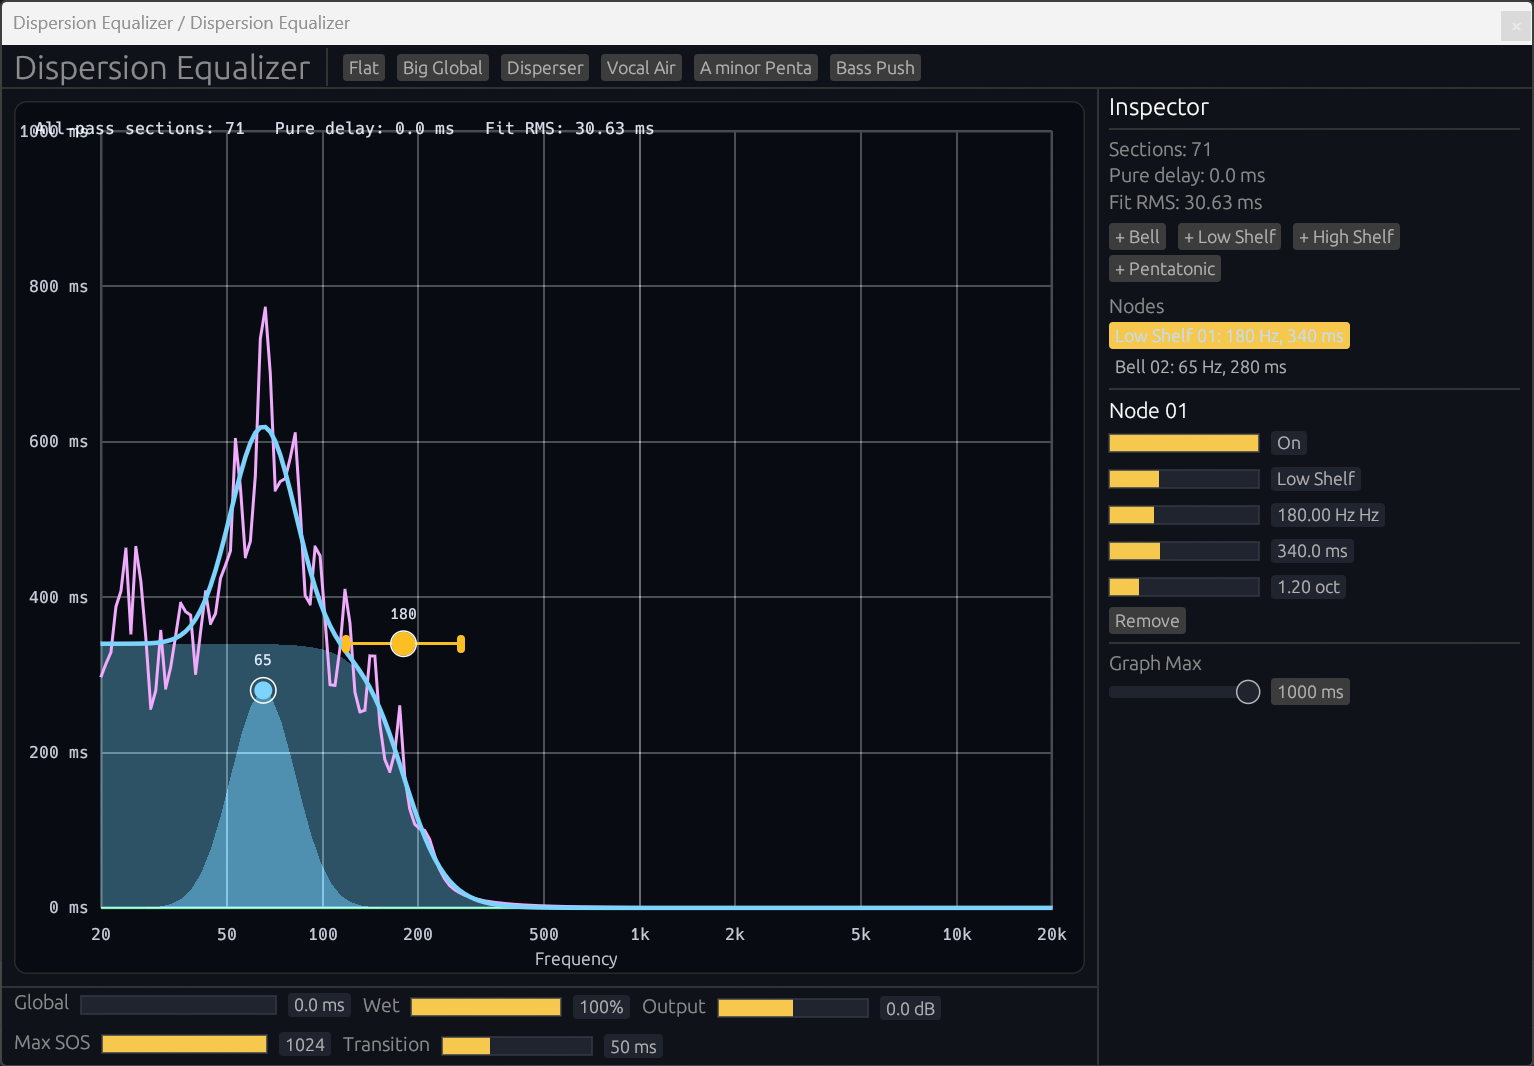
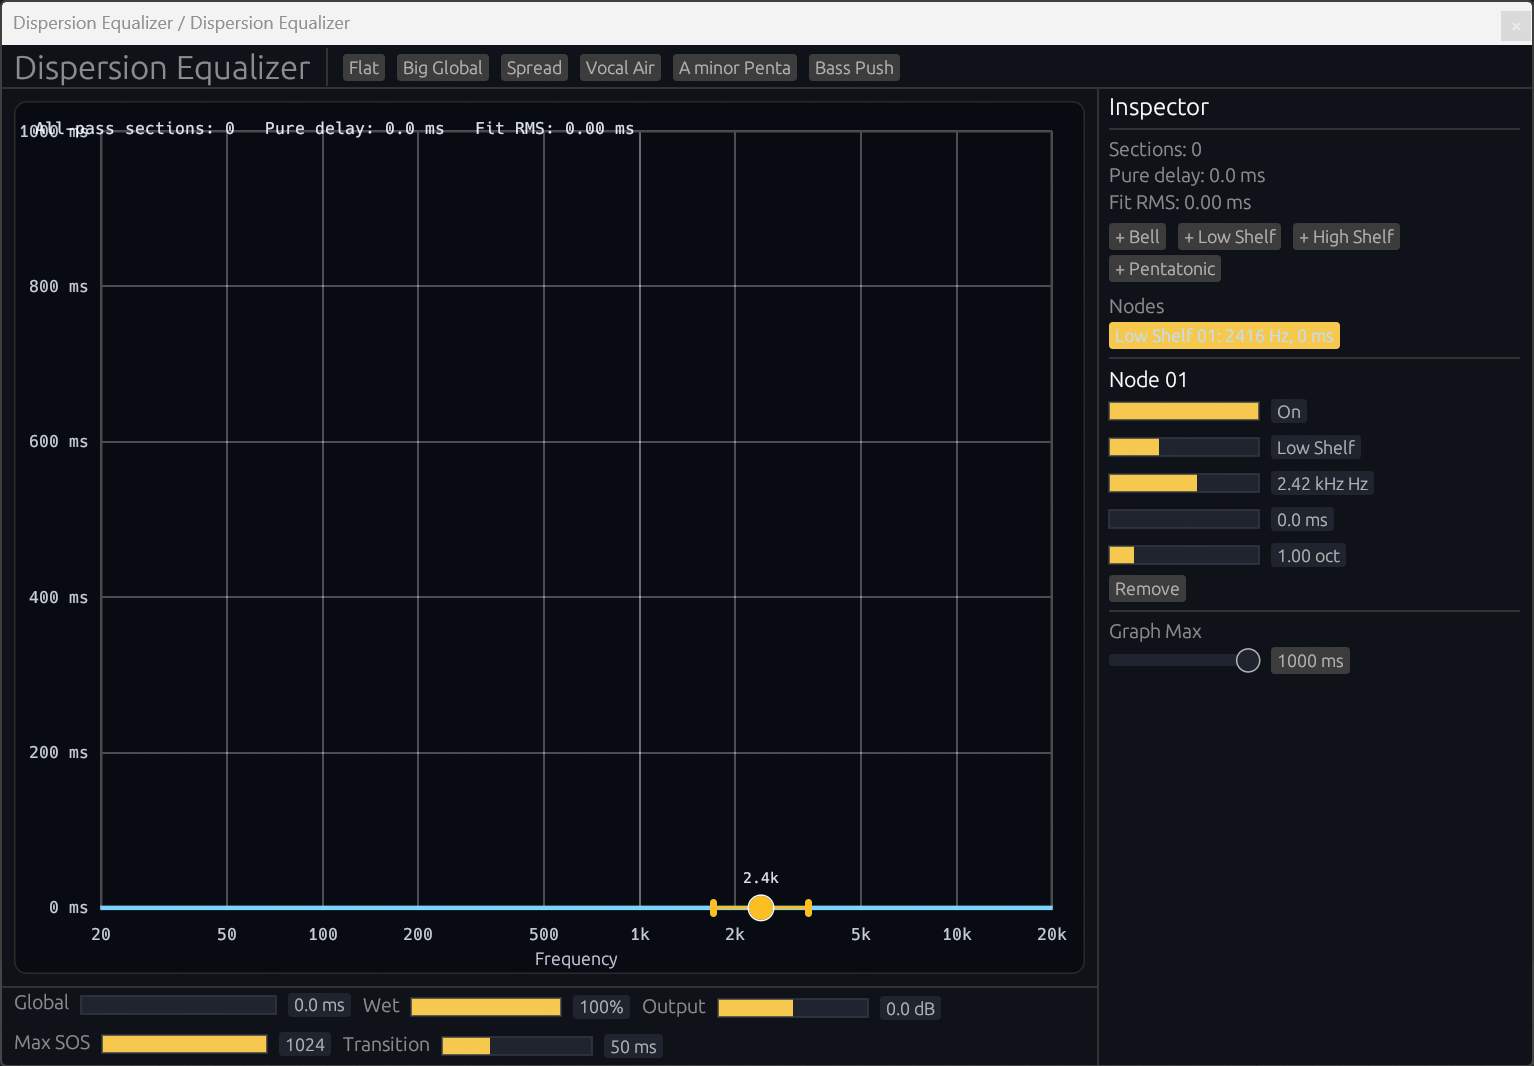
change Param name

diff --git a/docs/preview.html b/docs/preview.html
@@ -653,7 +653,7 @@
       <div class="button-grid three-cols">
         <button data-preset="flat">Flat</button>
         <button data-preset="global">Big Global</button>
-        <button data-preset="disperser">Disperser</button>
+        <button data-preset="phaseSpread">Spread</button>
         <button data-preset="vocal">Vocal Air</button>
         <button data-preset="pentatonic">A minor Penta</button>
         <button data-preset="bass">Bass Push</button>
@@ -2001,8 +2001,8 @@
       // keep empty
     } else if (name === "global") {
       state.globalDelayMs = 650;
-    } else if (name === "disperser") {
-      addNode("bell", { name: "Disperser Mid", freqHz: 900, amountMs: 520, widthOct: 1.2 });
+    } else if (name === "phaseSpread") {
+      addNode("bell", { name: "Phase Spread Mid", freqHz: 900, amountMs: 520, widthOct: 1.2 });
       addNode("bell", { name: "Snap Peak", freqHz: 2400, amountMs: 180, widthOct: 0.55 });
       state.selectedNodeId = state.nodes[0].id;
     } else if (name === "vocal") {

diff --git a/src/gui/mod.rs b/src/gui/mod.rs
@@ -31,8 +31,8 @@ pub fn draw_editor(
             if ui.button("Big Global").clicked() {
                 apply_preset(setter, params, BuiltinPreset::BigGlobal);
             }
-            if ui.button("Disperser").clicked() {
-                apply_preset(setter, params, BuiltinPreset::Disperser);
+            if ui.button("Spread").clicked() {
+                apply_preset(setter, params, BuiltinPreset::PhaseSpread);
             }
             if ui.button("Vocal Air").clicked() {
                 apply_preset(setter, params, BuiltinPreset::VocalAir);
@@ -88,7 +88,7 @@ pub fn draw_editor(
 enum BuiltinPreset {
     Flat,
     BigGlobal,
-    Disperser,
+    PhaseSpread,
     VocalAir,
     AMinorPenta,
     BassPush,
@@ -107,8 +107,8 @@ fn apply_preset(setter: &ParamSetter, params: &PluginParams, preset: BuiltinPres
         BuiltinPreset::BigGlobal => {
             set_param(setter, &params.global_delay_ms, 650.0);
         }
-        // Two Bell nodes (900 Hz 260 ms + 2400 Hz 180 ms) — matches preview.html "Disperser" preset
-        BuiltinPreset::Disperser => {
+        // Two Bell nodes for a broad phase-spread preset.
+        BuiltinPreset::PhaseSpread => {
             configure_node(setter, params, 0, NodeType::Bell, 900.0, 260.0, 1.0);
             configure_node(setter, params, 1, NodeType::Bell, 2400.0, 180.0, 0.9);
         }

diff --git a/tests/test_vst_blackbox.py b/tests/test_vst_blackbox.py
@@ -75,7 +75,6 @@ def test_vst3_loads_and_exposes_parameters():
     assert "Low Shelf" in valid_types
     assert "High Shelf" in valid_types
     assert "Scale / Pentatonic" in valid_types
-    assert "Disperser" not in valid_types
 
 
 def test_default_patch_is_finite_passthrough():

diff --git a/docs/pre_spec.md b/docs/pre_spec.md
@@ -48,10 +48,10 @@
 ### 主要目標
 
 ```text
-- Disperser 的な分散エフェクトを含められる
+- Phase Spread 的な分散エフェクトを含められる
 - Pro-Q3 的な直感的ノードUI
 - 横軸周波数、縦軸delay ms のグラフ
-- Bell / Shelf / Disperser / Scale / Global Delay ノード
+- Bell / Shelf / Phase Spread / Scale / Global Delay ノード
 - 再生中にノードを動かしても音が途切れない
 - wet 100% 時はできる限り振幅フラット
 - DAW automation 対応
@@ -221,7 +221,7 @@ GUI上の編集単位。
 ```text
 Bell Delay Node
 Shelf Delay Node
-Disperser Node
+Phase Spread Node
 Scale Delay Node
 Global Delay
 Free Draw Node
@@ -300,9 +300,9 @@ UI上の形:
 
 ---
 
-### 5.1.3 Disperser Node
+### 5.1.3 Phase Spread Node
 
-Disperser 的な専用ノード。
+Phase Spread 的な専用ノード。
 
 ```text
 parameter:
@@ -342,7 +342,7 @@ pinch high:
 
 に反映する。
 
-Disperser Node は target fitting ではなく、**直接 all-pass stack を生成**する。
+Phase Spread Node は target fitting ではなく、**直接 all-pass stack を生成**する。
 
 ---
 
@@ -594,7 +594,7 @@ Global Delay:
 Bell Delay:
   direct 2nd-order all-pass primitive
 
-Disperser:
+Phase Spread:
   dedicated all-pass stack
 
 Shelf:
@@ -656,7 +656,7 @@ pole parameter smoothing
 構造が少し変わる変更。
 
 ```text
-- Disperser amount が大きく変化
+- Phase Spread amount が大きく変化
 - section数が変わる
 - quality変更
 ```
@@ -874,7 +874,7 @@ old delay time と new delay time を同時に読み出して crossfade。
 Bell Node:
   max 4 SOS
 
-Disperser Node:
+Phase Spread Node:
   max 32 SOS
 
 Low/High Shelf Node:
@@ -1068,7 +1068,7 @@ Bell:
   Amount
   Width
 
-Disperser:
+Phase Spread:
   Freq
   Amount
   Pinch
@@ -1221,7 +1221,7 @@ struct NodeModel {
 #[derive(Clone, Copy, Serialize, Deserialize)]
 enum NodeType {
     Bell,
-    Disperser,
+    Phase Spread,
     LowShelf,
     HighShelf,
     Scale,
@@ -1305,7 +1305,7 @@ ActualGroupDelayPreview
 
 ---
 
-# 15. Disperser Node 詳細
+# 15. Phase Spread Node 詳細
 
 ## 15.1 パラメータ
 
@@ -1329,7 +1329,7 @@ order:
 ## 15.2 Section生成
 
 ```rust
-fn compile_disperser(node: &NodeModel, sr: f32, quality: QualityMode) -> Vec<SectionDescriptor> {
+fn compile_phase_spread(node: &NodeModel, sr: f32, quality: QualityMode) -> Vec<SectionDescriptor> {
     let n = compute_section_count(node.amount_ms, node.order, quality);
     let spread = node.spread_oct;
     let pinch = node.pinch;
@@ -1416,17 +1416,17 @@ quality mode
 ```text
 Eco:
   Bell max 1-2 sections
-  Disperser max 8 sections
+  Phase Spread max 8 sections
   Scale max 32 sections
 
 Normal:
   Bell max 4 sections
-  Disperser max 24 sections
+  Phase Spread max 24 sections
   Scale max 96 sections
 
 High:
   Bell max 8 sections
-  Disperser max 48 sections
+  Phase Spread max 48 sections
   Scale max 160 sections
 
 Insane:
@@ -1453,7 +1453,7 @@ Insane:
 
 ```text
 - Bell Node の peak が指定周波数近くに出る
-- Disperser Node の pinch が効く
+- Phase Spread Node の pinch が効く
 - Scale Node が指定scale frequencyにpeakを作る
 - Global Delay が全帯域一定delayになる
 ```
@@ -1539,7 +1539,7 @@ FL Studio:
 ```text
 Global Delay
 単一Bell Delay
-単一Disperserもどき
+単一Phase Spreadもどき
 ```
 
 ---
@@ -1550,7 +1550,7 @@ Global Delay
 - NodeModel
 - NodeType
 - Bell compiler
-- Disperser compiler
+- Phase Spread compiler
 - Shelf compiler
 - Scale compiler
 - ChainDescriptor
@@ -1681,7 +1681,7 @@ src/
   compiler/
     mod.rs
     bell.rs
-    disperser.rs
+    phase_spread.rs
     shelf.rs
     scale.rs
     free_draw.rs
@@ -1709,7 +1709,7 @@ Format:
 DSP:
   Global Delay
   Bell Delay
-  Disperser Node
+  Phase Spread Node
 
 GUI:
   Pro-Q風 graph
@@ -1748,7 +1748,7 @@ VST3配布
 
 2. Global Delay は pure delay で処理
 
-3. Disperser は専用 all-pass stack
+3. Phase Spread は専用 all-pass stack
 
 4. Bell/Shelf/Scale はノード別 primitive
 
@@ -1766,6 +1766,6 @@ VST3配布
 ```
 
 この設計なら、
-**Disperser的な音作り** と **汎用的なGroup Delay EQ** の両方を狙えます。
+**Phase Spread的な音作り** と **汎用的なGroup Delay EQ** の両方を狙えます。
 
 [1]: https://github.com/robbert-vdh/nih-plug "GitHub - robbert-vdh/nih-plug: Rust VST3 and CLAP plugin framework and plugins - because everything is better when you do it yourself · GitHub"

diff --git a/README.md b/README.md
@@ -9,7 +9,7 @@ Current MVP features:
 - CLAP/VST3 build targets through NIH-plug
 - Global Delay
 - Bell Delay nodes
-- Disperser nodes
+- Bell/Shelf/Scale delay nodes
 - Fixed 16 node slots for DAW automation
 - Dark egui graph editor with target/actual delay curves
 - Node add/select/drag/duplicate/remove
